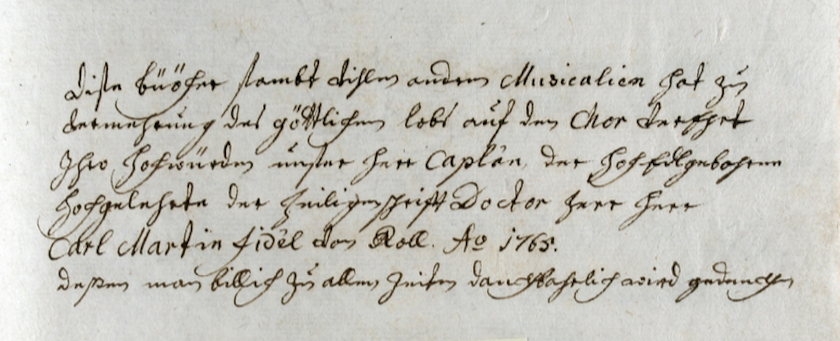
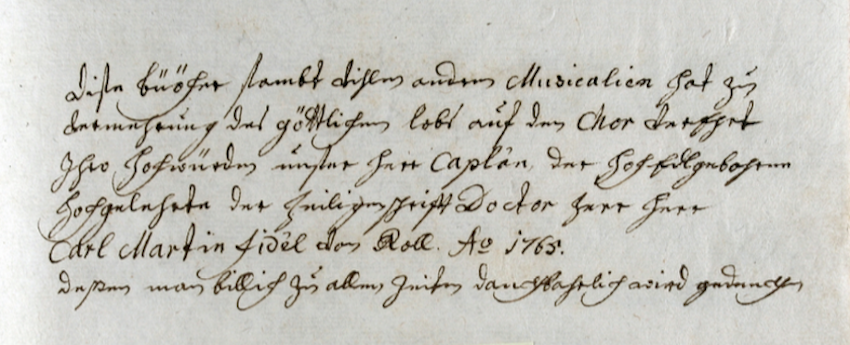
fixed 5.0

diff --git a/rism-ch/cataloging/niedermeyer.it.md b/rism-ch/cataloging/niedermeyer.it.md
@@ -48,8 +48,8 @@ Villa Niedermeyer<br>
 Route de Genève 6<br>
 1260 Nyon
 
-Web: <https://www.niedermeyer-nyon.ch>
-Kontakt: <info@niedermeyer-nyon.ch>
+Web: <https://www.niedermeyer-nyon.ch><br>
+Contatto: <info@niedermeyer-nyon.ch>
 
 
 #### Articolo della stampa

diff --git a/rism-ch/cataloging/niedermeyer.fr.md b/rism-ch/cataloging/niedermeyer.fr.md
@@ -50,8 +50,8 @@ Villa Niedermeyer<br>
 Route de Genève 6<br>
 1260 Nyon
 
-Web: <https://www.niedermeyer-nyon.ch>
-Kontakt: <info@niedermeyer-nyon.ch>
+Web: <https://www.niedermeyer-nyon.ch><br>
+Contact: <info@niedermeyer-nyon.ch>
 
 
 #### Article de presse

diff --git a/rism-ch/cataloging/niedermeyer.de.md b/rism-ch/cataloging/niedermeyer.de.md
@@ -46,7 +46,7 @@ Villa Niedermeyer<br>
 Route de Genève 6<br>
 1260 Nyon
 
-Web: <https://www.niedermeyer-nyon.ch>
+Web: <https://www.niedermeyer-nyon.ch><br>
 Kontakt: <info@niedermeyer-nyon.ch>
 
 

diff --git a/rism-ch/cataloging/niedermeyer.en.md b/rism-ch/cataloging/niedermeyer.en.md
@@ -47,7 +47,7 @@ Villa Niedermeyer<br>
 Route de Genève 6<br>
 1260 Nyon
 
-Web: <https://www.niedermeyer-nyon.ch>
+Web: <https://www.niedermeyer-nyon.ch><br>
 Contact: <info@niedermeyer-nyon.ch>
 
 
